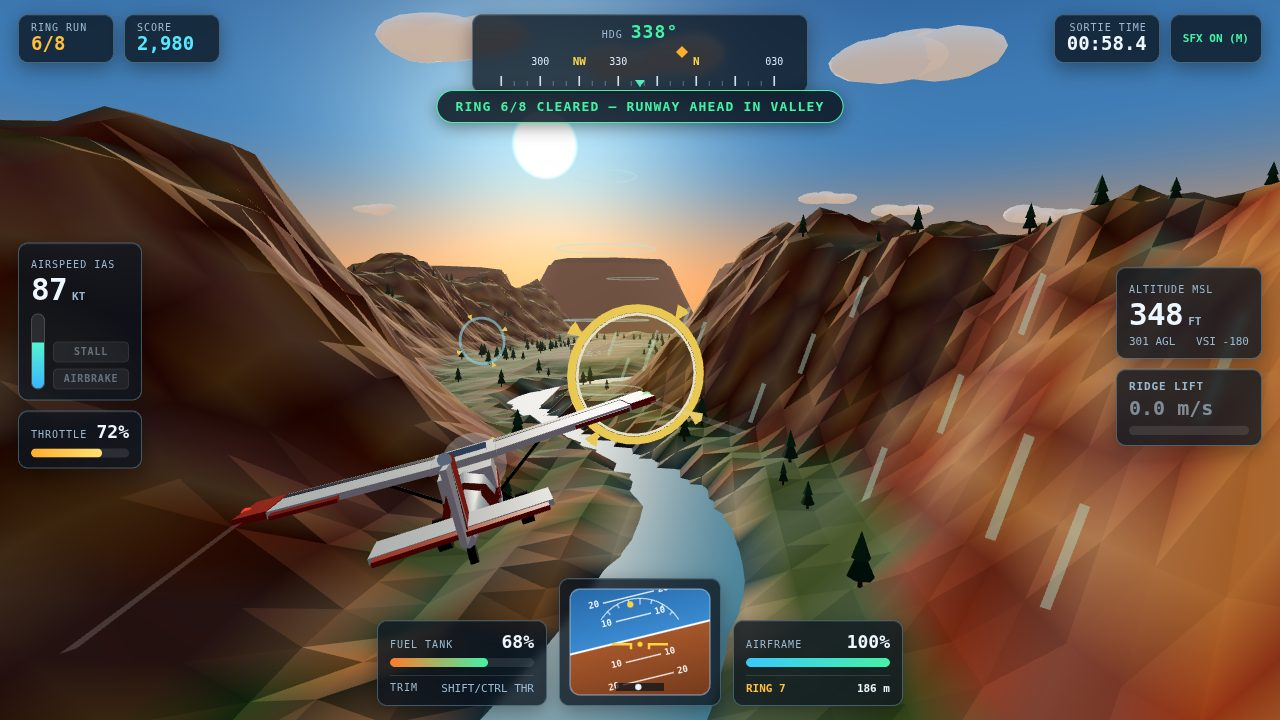
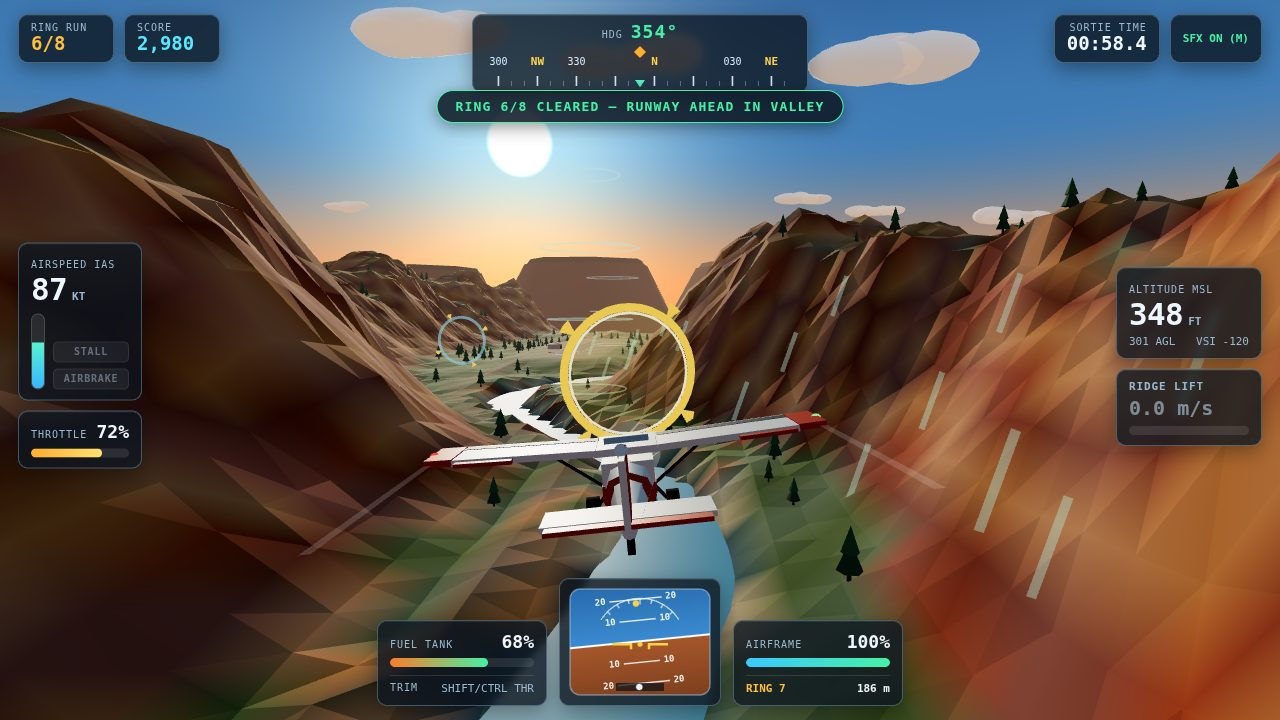
Soften cover pose bank angle to near-level and recapture 1-cover.jpg

diff --git a/game/src/shots.js b/game/src/shots.js
@@ -25,14 +25,13 @@ export function applyShotPose(shotName, ctx) {
     for (let i = 0; i < 6; i++) mission.rings[i].cleared = true;
     setMissionBanner(mission, 'RING 6/8 CLEARED — RUNWAY AHEAD IN VALLEY', 'success', 5);
 
-    // Frame the bush plane banking cleanly toward Ring 7, Ring 8, and Runway 36 beyond.
+    // Frame the bush plane near-level (gentle ~6 deg bank) aiming cleanly through Ring 7 toward Ring 8 & Runway 36.
     const r7 = mission.rings[6];
-    const r8 = mission.rings[7];
     const px = r7.x + 18;
     const pz = r7.z + 185;
     const py = r7.y + 18;
-    const dx = r8.x - px;
-    const dz = r8.z - pz;
+    const dx = r7.x - px;
+    const dz = r7.z - pz;
     const yaw = Math.atan2(-dx, -dz);
 
     const state = createFlightState({
@@ -41,26 +40,26 @@ export function applyShotPose(shotName, ctx) {
       z: pz,
       speed: 44.5,
       yaw,
-      pitch: -0.055,
-      roll: 0.24,
+      pitch: -0.025,
+      roll: 0.10,
       throttle: 0.72,
       fuel: 68,
     });
     state.hull = 100;
     state.agl = Math.max(0, state.pos.y - world.terrainHeight(state.pos.x, state.pos.z) - FLIGHT_CONFIG.gearOffset);
-    state.vsiFpm = -180;
+    state.vsiFpm = -120;
 
     world.applyLighting('ring-run');
     world.update(18.5, new THREE.Vector3(state.pos.x, state.pos.y, state.pos.z));
     ringVisuals.sync(mission, 18.5);
-    plane.update(state, { pitch: 0.1, roll: -0.35 }, 0, 18.5, false);
+    plane.update(state, { pitch: 0.04, roll: -0.1 }, 0, 18.5, false);
     plane.setPropSpin(0.65, 0.85);
 
-    // Hero chase camera framing plane in lower-center, glowing rings and runway straight ahead.
-    const behindX = Math.sin(yaw) * 18.8 + Math.cos(yaw) * 0.4;
-    const behindZ = Math.cos(yaw) * 18.8 - Math.sin(yaw) * 0.4;
-    camera.position.set(state.pos.x + behindX, state.pos.y + 5.6, state.pos.z + behindZ);
-    camera.lookAt(r7.x - 10, r7.y - 3, r7.z - 90);
+    // Centered chase camera behind the aircraft framing near-level wings, glowing Ring 7, Ring 8, and valley runway.
+    const behindX = Math.sin(yaw) * 18.6;
+    const behindZ = Math.cos(yaw) * 18.6;
+    camera.position.set(state.pos.x + behindX, state.pos.y + 5.4, state.pos.z + behindZ);
+    camera.lookAt(r7.x - 4, r7.y - 4, r7.z - 95);
 
     setOverlayState('flying');
     hud.update(state, mission, false);
